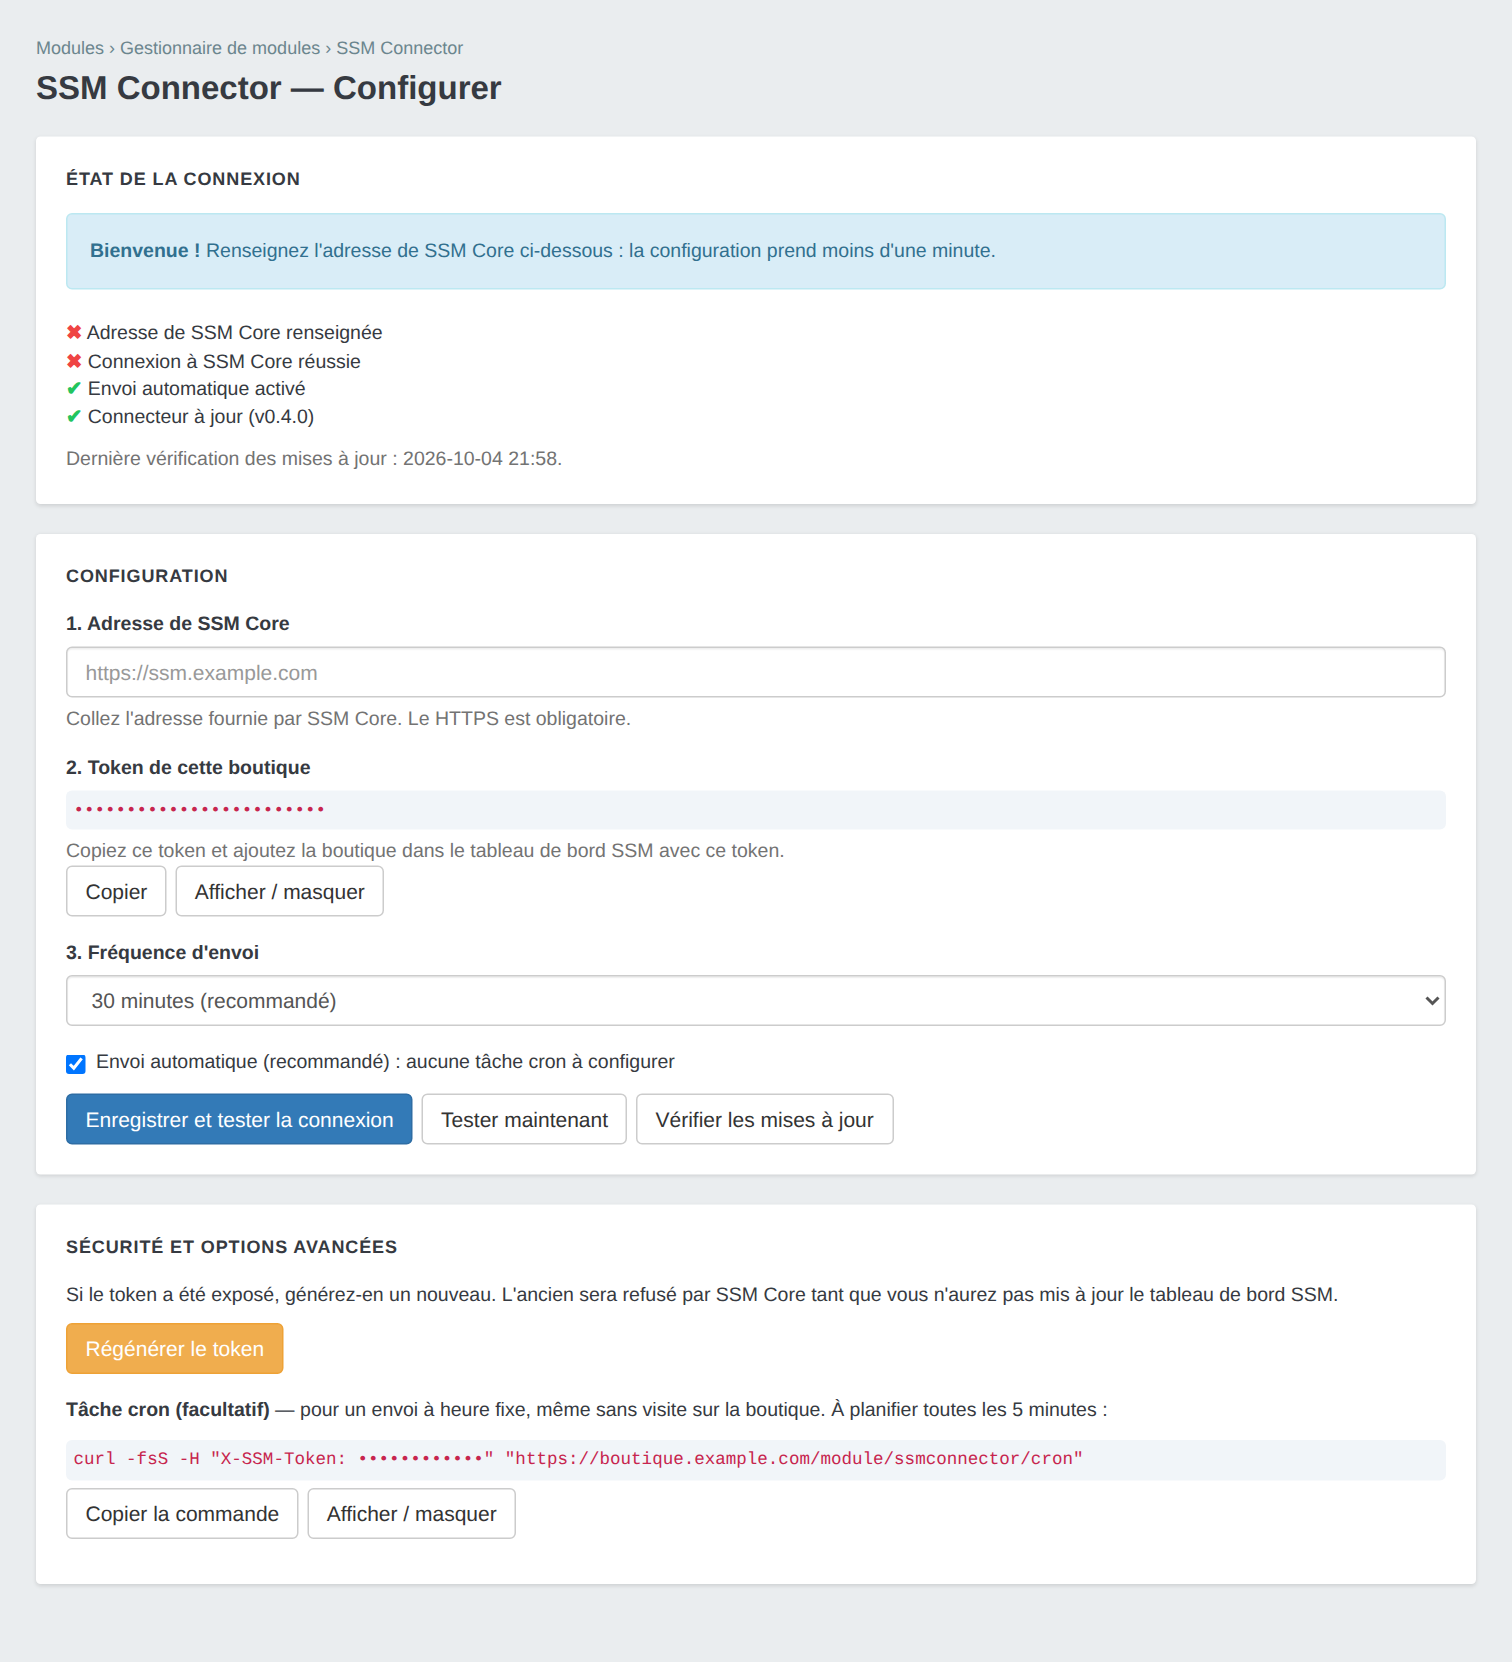
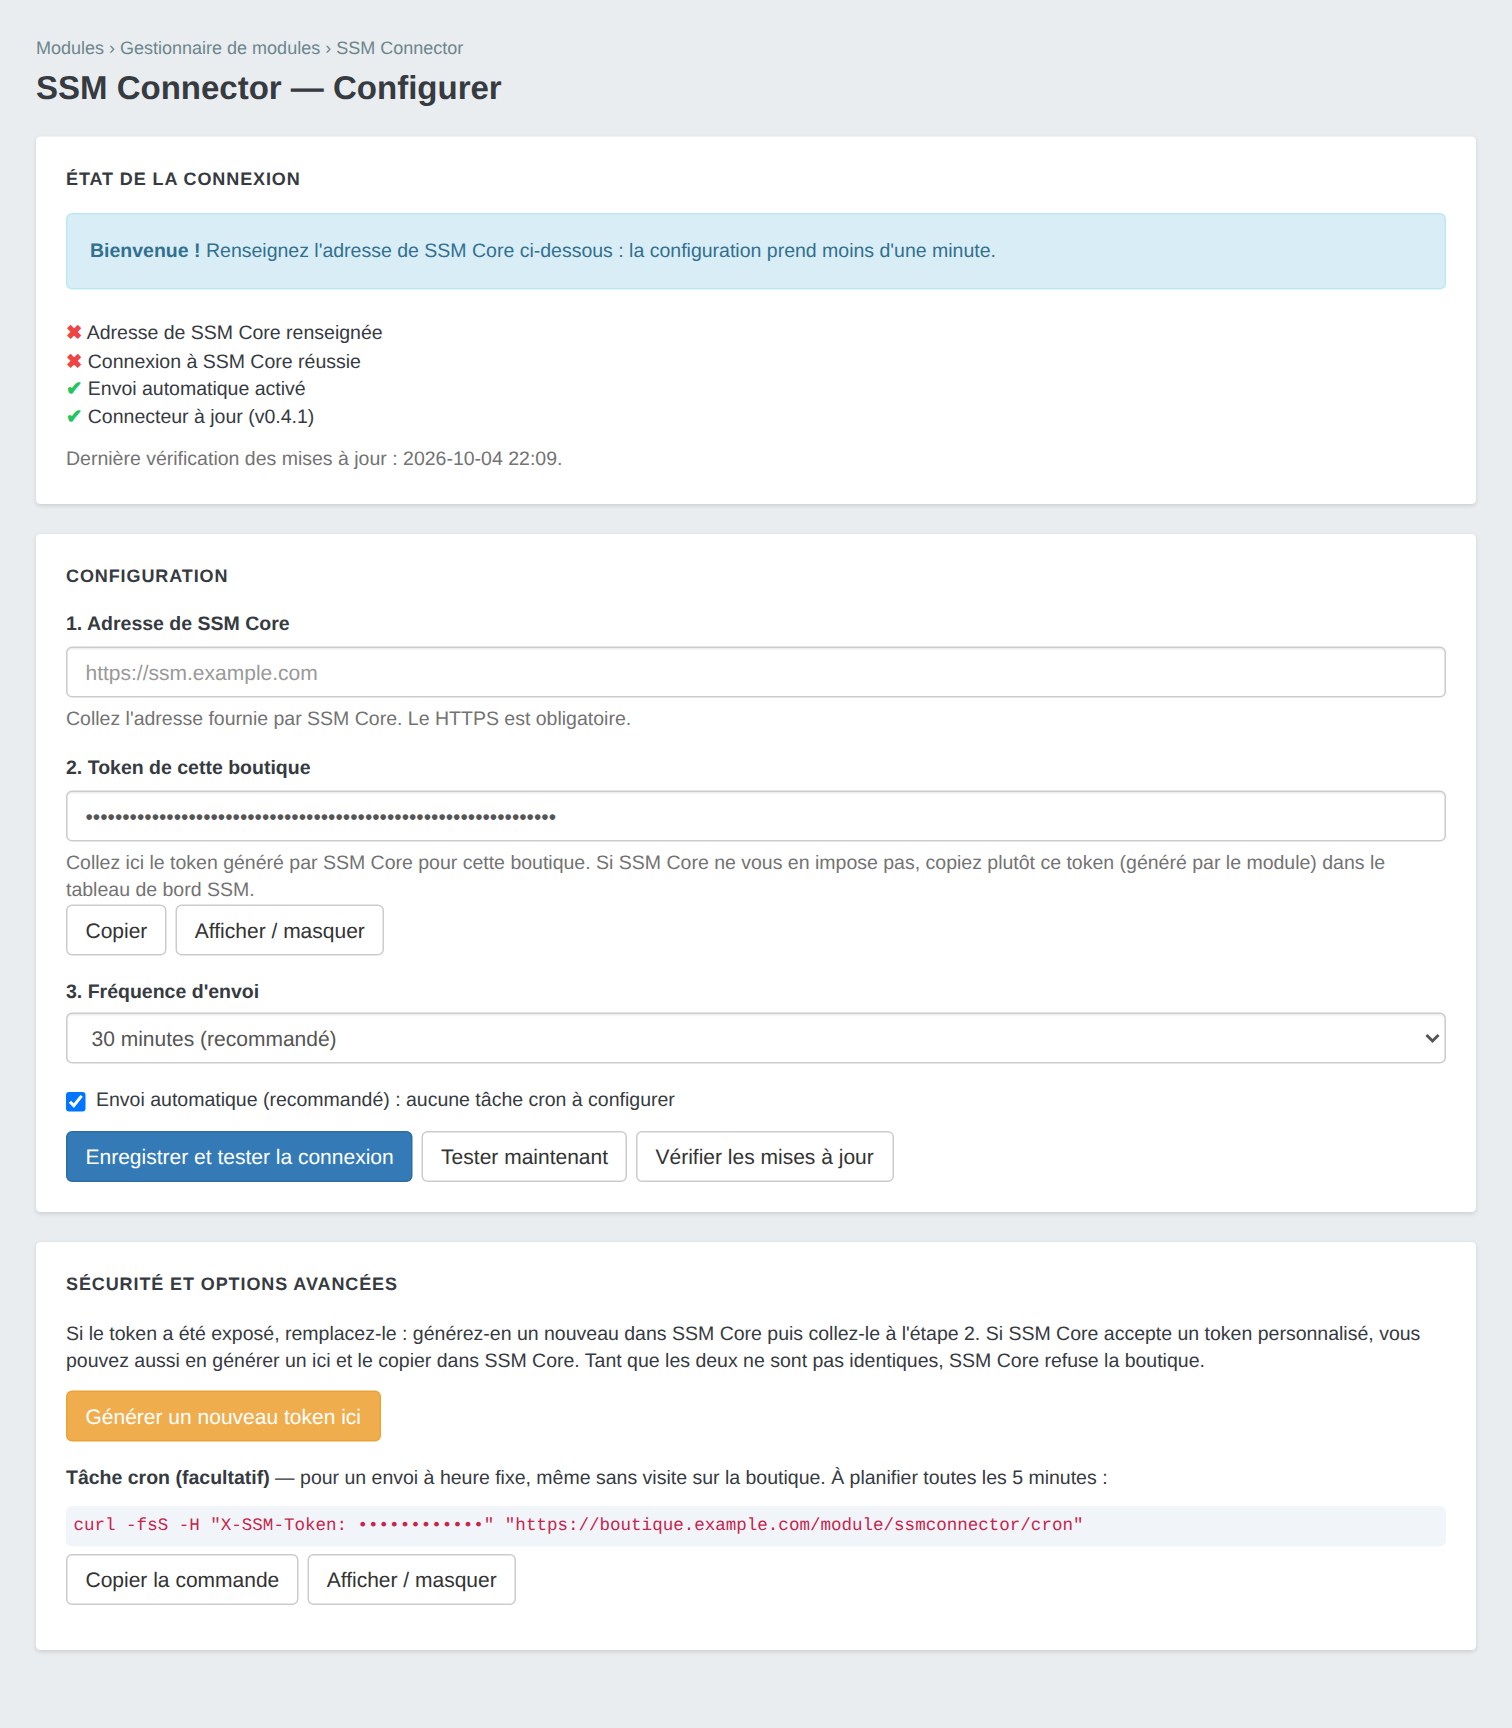
feat: saisie du token fourni par SSM Core (0.4.1)
Le token de la boutique peut être collé dans la configuration (celui généré par SSM Core), avec contrôle du format avant toute écriture. Le token généré par le module reste proposé par défaut. Messages, README et captures d'écran mis à jour.

Changed region(s): [[0.0311, 0.0921, 0.9636, 0.7058], [0.0311, 0.7365, 0.9325, 0.9206], [0.0311, 0.0, 0.3419, 0.0614]]

diff --git a/ssmconnector.php b/ssmconnector.php
@@ -4,7 +4,7 @@
  *
  * @author  Selest Informatique
  * @license MIT
- * @version 0.4.0
+ * @version 0.4.1
  */
 
 if (!defined('_PS_VERSION_')) {
@@ -27,7 +27,7 @@ class Ssmconnector extends Module
     {
         $this->name = 'ssmconnector';
         $this->tab = 'administration';
-        $this->version = '0.4.0';
+        $this->version = '0.4.1';
         $this->author = 'Selest Informatique';
         $this->need_instance = 0;
         $this->ps_versions_compliancy = ['min' => '8.0.0', 'max' => _PS_VERSION_];
@@ -200,8 +200,8 @@ class Ssmconnector extends Module
             . '<p class="help-block">' . $this->h($this->l('Collez l\'adresse fournie par SSM Core. Le HTTPS est obligatoire.')) . '</p></div>';
 
         $output .= '<div class="form-group"><label><strong>2.</strong> ' . $this->h($this->l('Token de cette boutique')) . '</label>'
-            . '<code id="ssm-token" data-value="' . $this->h($token) . '" data-mask="' . $this->h(str_repeat('•', 24)) . '" data-shown="0" style="background:#f1f5f9;padding:0.5rem;display:block;word-break:break-all;">' . $this->h(str_repeat('•', 24)) . '</code>'
-            . '<p class="help-block">' . $this->h($this->l('Copiez ce token et ajoutez la boutique dans le tableau de bord SSM avec ce token.')) . '</p>'
+            . '<input type="password" id="ssm-token" name="SSM_CONNECTOR_TOKEN" value="' . $this->h($token) . '" class="form-control" autocomplete="new-password" spellcheck="false">'
+            . '<p class="help-block">' . $this->h($this->l('Collez ici le token généré par SSM Core pour cette boutique. Si SSM Core ne vous en impose pas, copiez plutôt ce token (généré par le module) dans le tableau de bord SSM.')) . '</p>'
             . '<button type="button" class="btn btn-default" onclick="ssmCopy(\'ssm-token\')">Copier</button> '
             . '<button type="button" class="btn btn-default" onclick="ssmToggle(\'ssm-token\')">Afficher / masquer</button></div>';
 
@@ -251,6 +251,14 @@ class Ssmconnector extends Module
                 if ($url === null) {
                     return $this->displayError($error);
                 }
+                // Token saisi (celui de SSM Core) : vide = on conserve l'actuel
+                $token = trim((string) Tools::getValue('SSM_CONNECTOR_TOKEN'));
+                if ($token !== '' && !$this->isValidToken($token)) {
+                    return $this->displayError($this->l('Token invalide : 16 à 512 caractères visibles, sans espace ni retour à la ligne.'));
+                }
+                if ($token !== '') {
+                    Configuration::updateValue('SSM_CONNECTOR_TOKEN', $token);
+                }
                 Configuration::updateValue('SSM_SSM_URL', $url);
                 Configuration::updateValue('SSM_HEARTBEAT_INTERVAL', $this->clampInterval((int) Tools::getValue('SSM_HEARTBEAT_INTERVAL')));
                 Configuration::updateValue('SSM_AUTO_HEARTBEAT', Tools::getValue('SSM_AUTO_HEARTBEAT') ? 1 : 0);
@@ -267,7 +275,7 @@ class Ssmconnector extends Module
                 Configuration::updateValue('SSM_CONNECTOR_TOKEN', bin2hex(random_bytes(32)));
                 Configuration::updateValue('SSM_HEARTBEAT_OK', 0);
                 Configuration::updateValue('SSM_LAST_ERROR', '');
-                return $this->displayConfirmation($this->l('Nouveau token généré. Mettez-le à jour dans le tableau de bord SSM : l\'ancien est désormais refusé.'));
+                return $this->displayConfirmation($this->l('Nouveau token généré. Copiez-le dans SSM Core : tant que les deux ne sont pas identiques, la connexion est refusée.'));
         }
 
         return '';
@@ -325,8 +333,8 @@ class Ssmconnector extends Module
 
         $html = '<div class="panel"><div class="panel-heading"><i class="icon-lock"></i> ' . $this->h($this->l('Sécurité et options avancées')) . '</div>';
         $html .= '<form method="post" style="margin-bottom:1.5rem;">' . $nonce
-            . '<p>' . $this->h($this->l('Si le token a été exposé, générez-en un nouveau. L\'ancien sera refusé par SSM Core tant que vous n\'aurez pas mis à jour le tableau de bord SSM.')) . '</p>'
-            . '<button type="submit" name="submitSSMRegenerateToken" class="btn btn-warning" onclick="return confirm(\'Générer un nouveau token ? Il faudra le mettre à jour dans SSM Core.\');">Régénérer le token</button></form>';
+            . '<p>' . $this->h($this->l('Si le token a été exposé, remplacez-le : générez-en un nouveau dans SSM Core puis collez-le à l\'étape 2. Si SSM Core accepte un token personnalisé, vous pouvez aussi en générer un ici et le copier dans SSM Core. Tant que les deux ne sont pas identiques, SSM Core refuse la boutique.')) . '</p>'
+            . '<button type="submit" name="submitSSMRegenerateToken" class="btn btn-warning" onclick="return confirm(\'Générer un nouveau token ? Il devra être identique dans SSM Core, sinon la connexion sera refusée.\');">Générer un nouveau token ici</button></form>';
         $html .= '<p><strong>' . $this->h($this->l('Tâche cron (facultatif)')) . '</strong> — '
             . $this->h($this->l('pour un envoi à heure fixe, même sans visite sur la boutique. À planifier toutes les 5 minutes :')) . '</p>'
             . '<code id="ssm-cron" data-value="' . $this->h($command) . '" data-mask="' . $this->h($masked) . '" data-shown="0" style="background:#f1f5f9;padding:0.5rem;display:block;word-break:break-all;">' . $this->h($masked) . '</code>'
@@ -338,8 +346,8 @@ class Ssmconnector extends Module
     private function renderScripts()
     {
         return '<script>'
-            . 'function ssmCopy(id){var e=document.getElementById(id);if(navigator.clipboard){navigator.clipboard.writeText(e.dataset.value);}else{window.prompt("Copiez la valeur :",e.dataset.value);}}'
-            . 'function ssmToggle(id){var e=document.getElementById(id);var s=e.dataset.shown==="1";e.textContent=s?e.dataset.mask:e.dataset.value;e.dataset.shown=s?"0":"1";}'
+            . 'function ssmCopy(id){var e=document.getElementById(id);var v=e.tagName==="INPUT"?e.value:e.dataset.value;if(navigator.clipboard){navigator.clipboard.writeText(v);}else{window.prompt("Copiez la valeur :",v);}}'
+            . 'function ssmToggle(id){var e=document.getElementById(id);if(e.tagName==="INPUT"){e.type=e.type==="password"?"text":"password";return;}var s=e.dataset.shown==="1";e.textContent=s?e.dataset.mask:e.dataset.value;e.dataset.shown=s?"0":"1";}'
             . '</script>';
     }
 
@@ -401,6 +409,12 @@ class Ssmconnector extends Module
         }
 
         return [$scheme . '://' . $host . (isset($parts['port']) ? ':' . (int) $parts['port'] : '') . (isset($parts['path']) ? rtrim($parts['path'], '/') : ''), null];
+    }
+
+    /** Caractères ASCII visibles uniquement : le token est envoyé dans un en-tête HTTP. */
+    private function isValidToken($token)
+    {
+        return (bool) preg_match('/^[\x21-\x7E]{16,512}$/', $token);
     }
 
     // === Protection des formulaires (CSRF) ===
@@ -819,7 +833,7 @@ class Ssmconnector extends Module
             return $this->l('Certificat HTTPS invalide ou non reconnu par ce serveur : la connexion est refusée par sécurité.');
         }
         if ($http_code === 401 || $http_code === 403) {
-            return $this->l('Token refusé par SSM Core : ajoutez cette boutique dans le tableau de bord SSM avec le token ci-dessus.');
+            return $this->l('Token refusé par SSM Core : vérifiez que le token ci-dessous est exactement celui fourni par SSM Core pour cette boutique (copier-coller, sans espace).');
         }
         if ($http_code === 404) {
             return $this->l('L\'API SSM est introuvable à cette adresse : vérifiez l\'adresse de SSM Core.');

diff --git a/upgrade/upgrade-0.4.1.php b/upgrade/upgrade-0.4.1.php
@@ -1,0 +1,14 @@
+<?php
+/**
+ * Mise à jour vers 0.4.1 : le token peut désormais être saisi (celui fourni par
+ * SSM Core). Réaffirme les réglages par défaut. Idempotent.
+ */
+
+if (!defined('_PS_VERSION_')) {
+    exit;
+}
+
+function upgrade_module_0_4_1($module)
+{
+    return $module->setupDefaults();
+}

diff --git a/README.md b/README.md
@@ -4,7 +4,7 @@
 
 Module natif PrestaShop (8.x, 9.x visé) qui relie la boutique à **SSM Core** (Selest Site Manager) : inventaire (modules, thèmes, versions), statistiques de base, journal d'événements et suivi de l'état de la boutique.
 
-Version actuelle : **0.4.0**
+Version actuelle : **0.4.1**
 
 ## Aperçu
 
@@ -21,8 +21,10 @@ Page de configuration du module : trois champs, un test de connexion intégré e
 ## Configuration en 3 étapes
 
 1. **Installer** le module : Back-office → Modules → Gestionnaire de modules → *Téléverser un module*, avec `ssmconnector.zip` de la [dernière release](../../releases/latest).
-2. **Ouvrir la configuration** du module, coller l'**adresse de SSM Core**, cliquer sur **Enregistrer et tester la connexion**.
-3. **Copier le token** affiché (bouton *Copier*) et ajouter la boutique dans le tableau de bord SSM avec ce token.
+2. **Dans le tableau de bord SSM**, ajouter la boutique : SSM Core affiche l'adresse du serveur et génère un **token** pour cette boutique. Copiez-les.
+3. **Dans la configuration du module**, collez l'**adresse** et le **token**, puis cliquez sur **Enregistrer et tester la connexion**.
+
+> Si votre SSM Core accepte un token personnalisé, vous pouvez à la place copier dans SSM celui généré par le module (bouton *Copier*, à l'étape 2 de la page de configuration). Dans tous les cas, le token doit être **identique des deux côtés**.
 
 C'est tout : l'envoi est automatique, sans tâche cron à configurer. La page indique l'état de la connexion ; en cas d'échec, elle explique la cause (adresse introuvable, token refusé, certificat invalide…) et ce qu'il faut corriger.
 
@@ -58,7 +60,7 @@ Le heartbeat n'est envoyé que si l'intervalle configuré est écoulé ; ajouter
 ## Sécurité
 
 - **HTTPS obligatoire** : l'adresse de SSM Core doit commencer par `https://` (`http://` n'est toléré que pour `localhost`). Le certificat est vérifié et les redirections ne sont **pas** suivies, pour que le token ne parte jamais vers une autre adresse.
-- **Token** de 256 bits tiré au hasard à l'installation, affiché masqué, **régénérable** en un clic (l'ancien est alors refusé).
+- **Token** : celui fourni par SSM Core (saisi à l'étape 2) ; à défaut, un token de 256 bits tiré au hasard à l'installation. Affiché masqué, remplaçable à tout moment. Seuls les caractères ASCII visibles sont acceptés (16 à 512, sans espace ni retour à la ligne), ce qui exclut toute injection dans les en-têtes HTTP.
 - **Chaque envoi** porte le token (`X-SSM-Token`) et une signature HMAC-SHA256 du corps (`X-SSM-Signature`, clé = token). Le corps contient un horodatage, donc signé.
 - **Point d'entrée cron** : token en en-tête uniquement, comparaison à temps constant, **blocage 15 minutes après 10 échecs** depuis la même adresse IP (réponse `429`). L'adresse IP n'est jamais stockée en clair, seulement son condensat.
 - **Back-office** : chaque action de la page de configuration est protégée par un jeton anti-CSRF propre à l'employé, en plus de celui de PrestaShop ; toutes les sorties sont échappées. L'accès à la page reste régi par les droits PrestaShop sur les modules.
